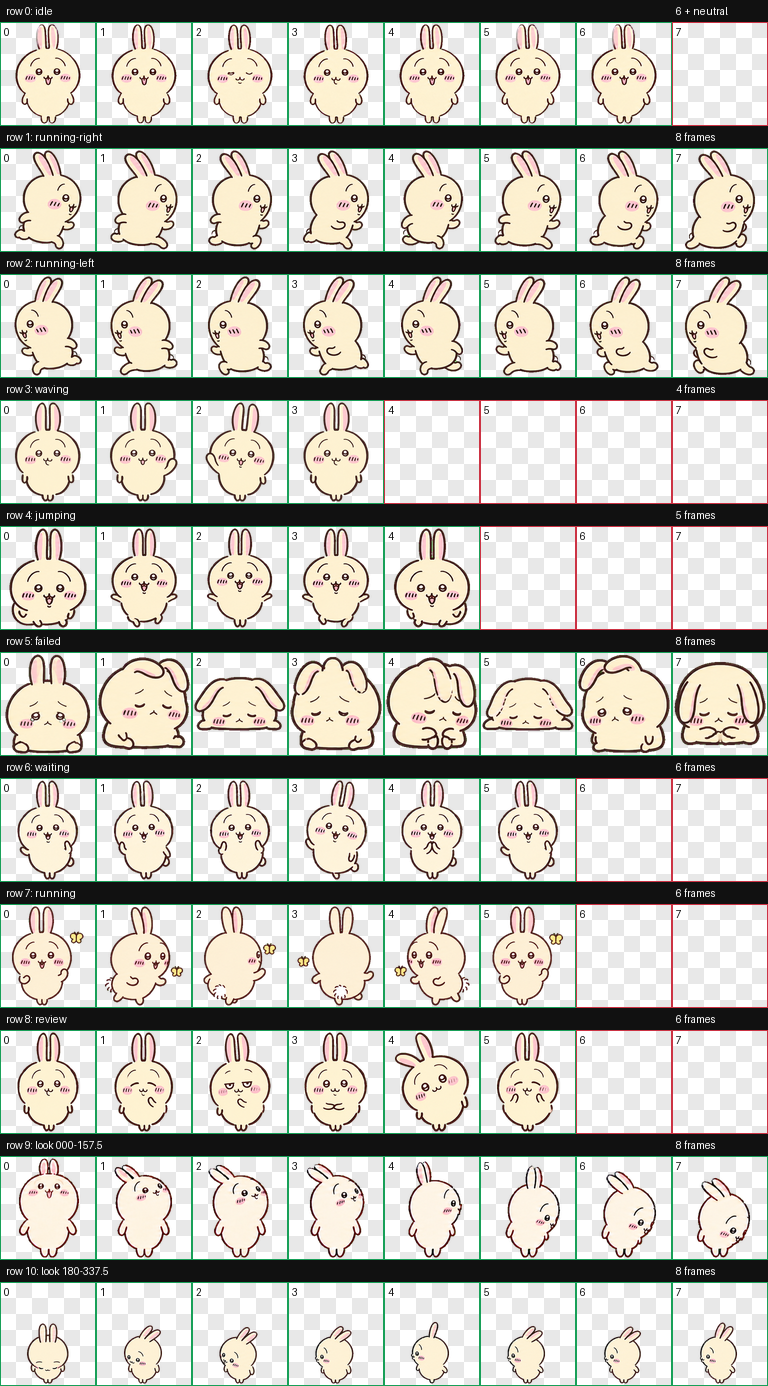
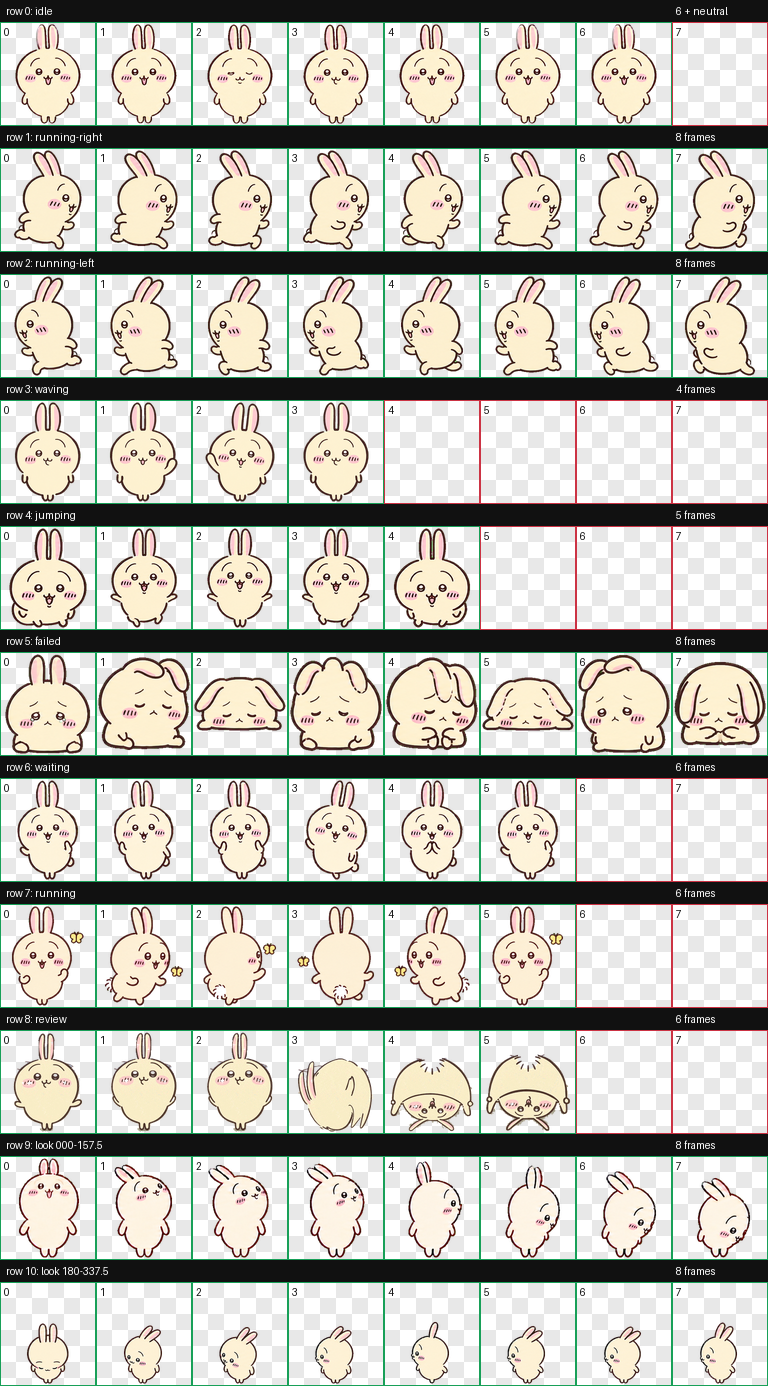
Replace review animation with Usagi photo pose

Changed region(s): [[0.0, 0.7446, 0.75, 0.8377]]

diff --git a/README.md b/README.md
@@ -11,8 +11,15 @@
 - 包含待机、左右移动、挥手、跳跃、失败、等待、工作和检查动作
 - 支持 16 个环视方向
 - 工作状态会出现追逐黄色蝴蝶的动作
+- 检查状态会转身弯腰，再从两腿之间倒着探头
 - 侧面和背面采用更圆润的轮廓，不使用细长的豆形身体
 - 保持睁眼、暖黄色身体、深棕色线条和粉色腮红
+
+## 检查动作
+
+`review` 状态采用第 80 话拍照场景中的搞怪动作：先正面停顿，随后快速转身弯腰，最后倒着从两腿之间探头。
+
+![乌萨奇转身倒着探头](assets/review-action.gif)
 
 ## 特别动作设计
 
@@ -42,15 +49,16 @@ codex-usagi-pet/
 ├── spritesheet.webp
 └── assets/
     ├── contact-sheet.png
+    ├── review-action.gif
     └── special-actions.png
 ```
 
 - `pet.json`：桌宠名称、说明与 v2 格式声明。
 - `spritesheet.webp`：可直接安装的透明动态精灵图，尺寸为 1536 × 2288。
 - `assets/contact-sheet.png`：全部动作与环视方向总览。
+- `assets/review-action.gif`：检查状态的 6 帧动作预览。
 - `assets/special-actions.png`：草裙与夹子动作设计展示。
 
 ## 说明
 
 这是由 Biodog06 与 Codex 共同调整的非官方同人桌宠，仅供个人学习与非商业使用。乌萨奇及相关角色版权归原作者 Nagano 与相关权利方所有，本仓库与官方无关。
-
